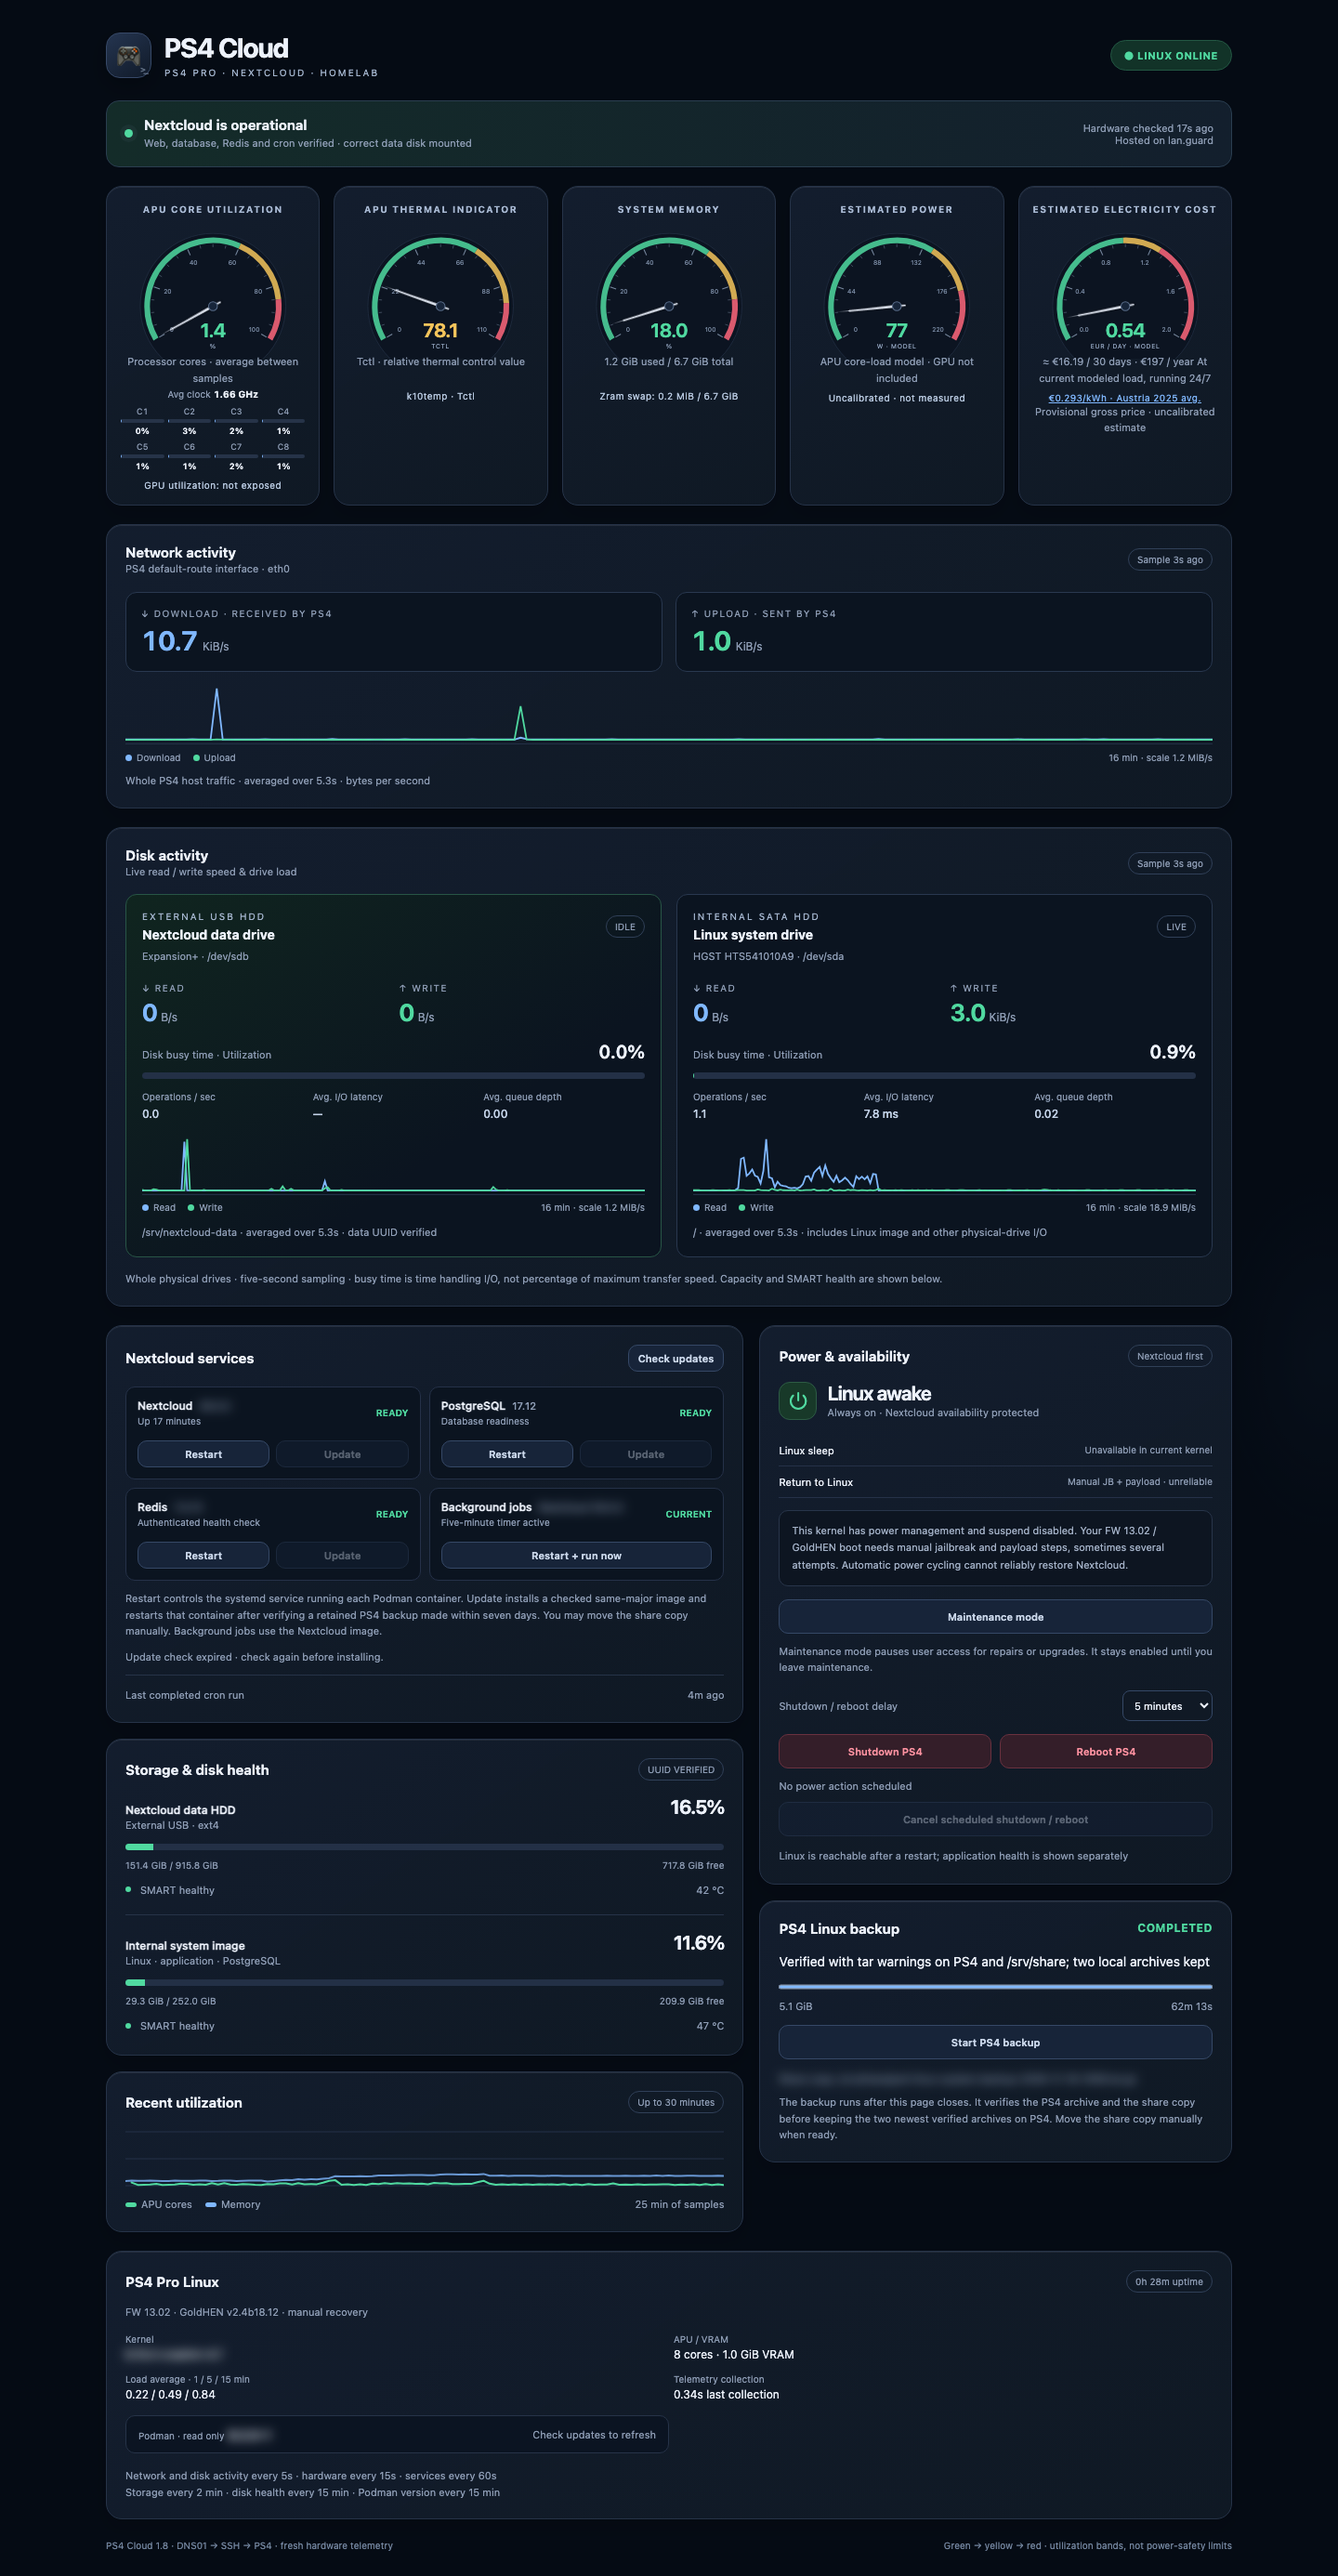
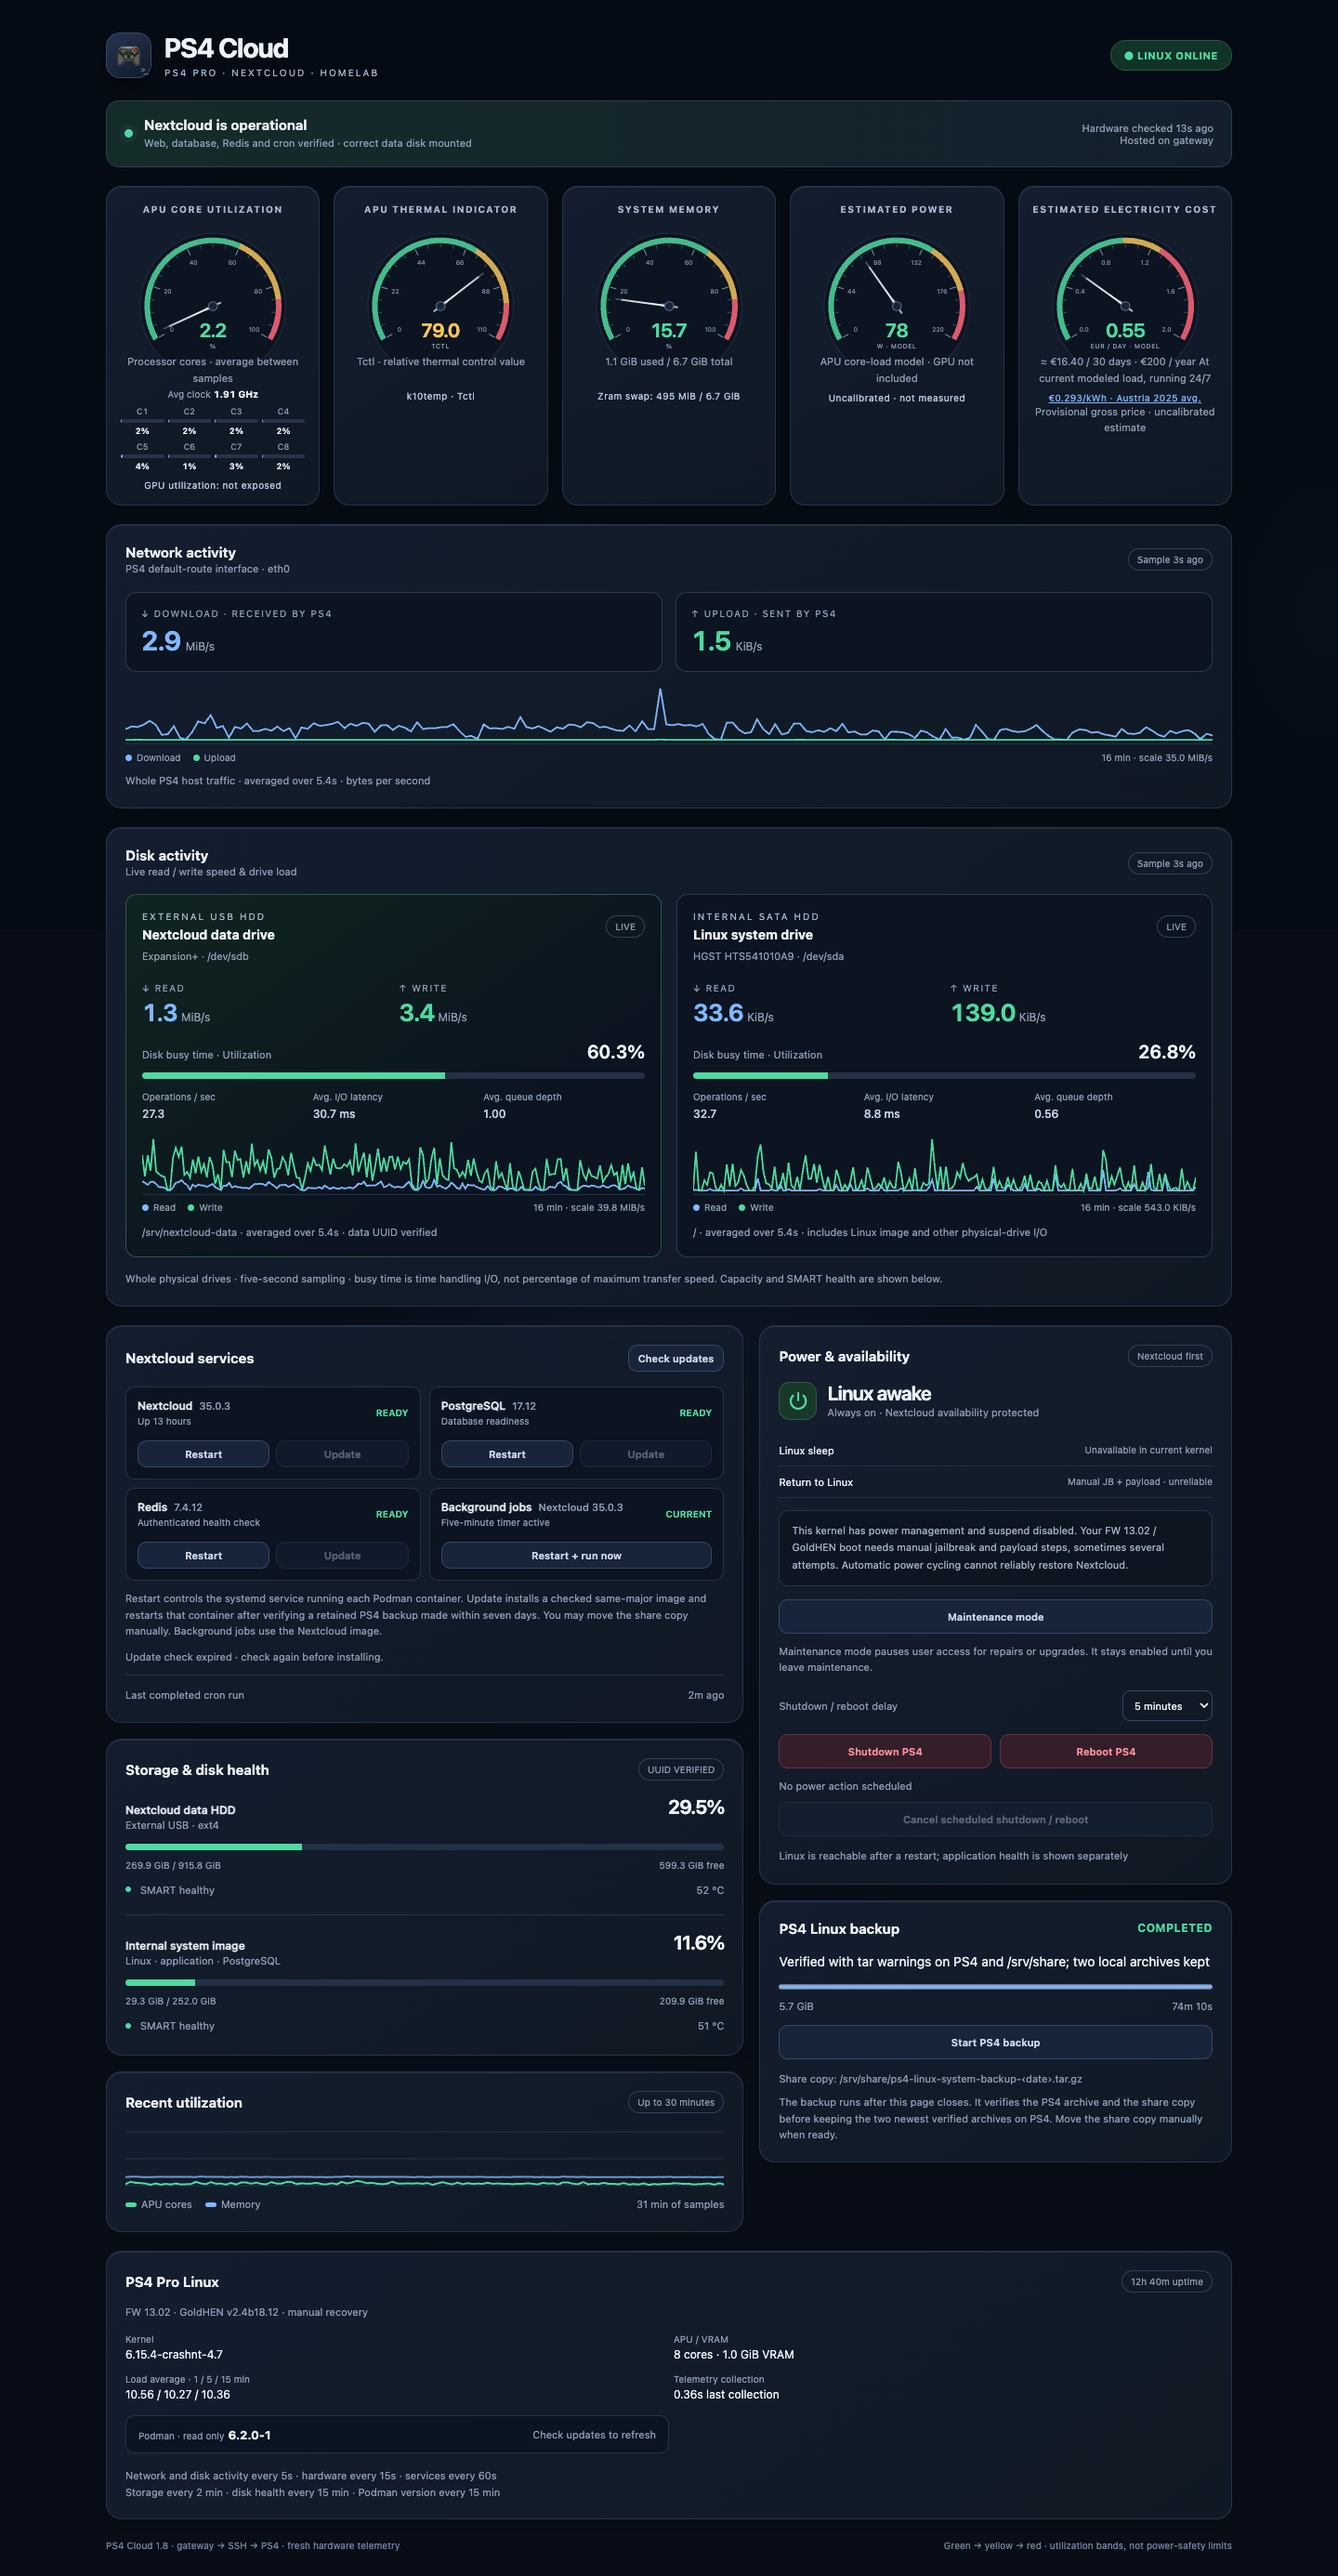
Profile: real PS4 Cloud screenshots (desktop and phone)
Replace the simulated-data PS4 Cloud image with a live capture and add a
phone view. The gateway hostname and a backup file name were replaced
with neutral placeholders before capture.

diff --git a/README.md b/README.md
@@ -35,8 +35,9 @@ Self-hosted on 5G: a Linux gateway publishes everything through Cloudflare Tunne
 - **Sysadmin ToolZz** — native SwiftUI macOS dashboard for system health, cleanup and DNS, controlling the above over SSH.
 
 <p>
-  <img src="assets/wake-ai.png" width="49%" align="top" alt="Wake AI dashboard: Mac mini CPU and core activity, memory, GPU, storage, network and AI service status, and the PS5 and PS5 Pro AI servers side by side">
-  <img src="assets/ps4-cloud.png" width="49%" align="top" alt="PS4 Cloud dashboard: APU, thermal, memory, power and cost gauges, network and disk activity">
+  <img src="assets/wake-ai.png" width="41%" align="top" alt="Wake AI dashboard: Mac mini CPU and core activity, memory, GPU, storage, network and AI service status, and the PS5 and PS5 Pro AI servers side by side">
+  <img src="assets/ps4-cloud.png" width="41%" align="top" alt="PS4 Cloud dashboard, live: Nextcloud operational, APU, thermal, memory, power and cost gauges, network and disk activity, Nextcloud 35.0.3 services, storage health and a verified backup">
+  <img src="assets/ps4-cloud-phone.png" width="16%" align="top" alt="PS4 Cloud dashboard on a phone: Nextcloud operational, APU utilization, thermal, memory and power gauges">
 </p>
 
 ### Selected fixes
